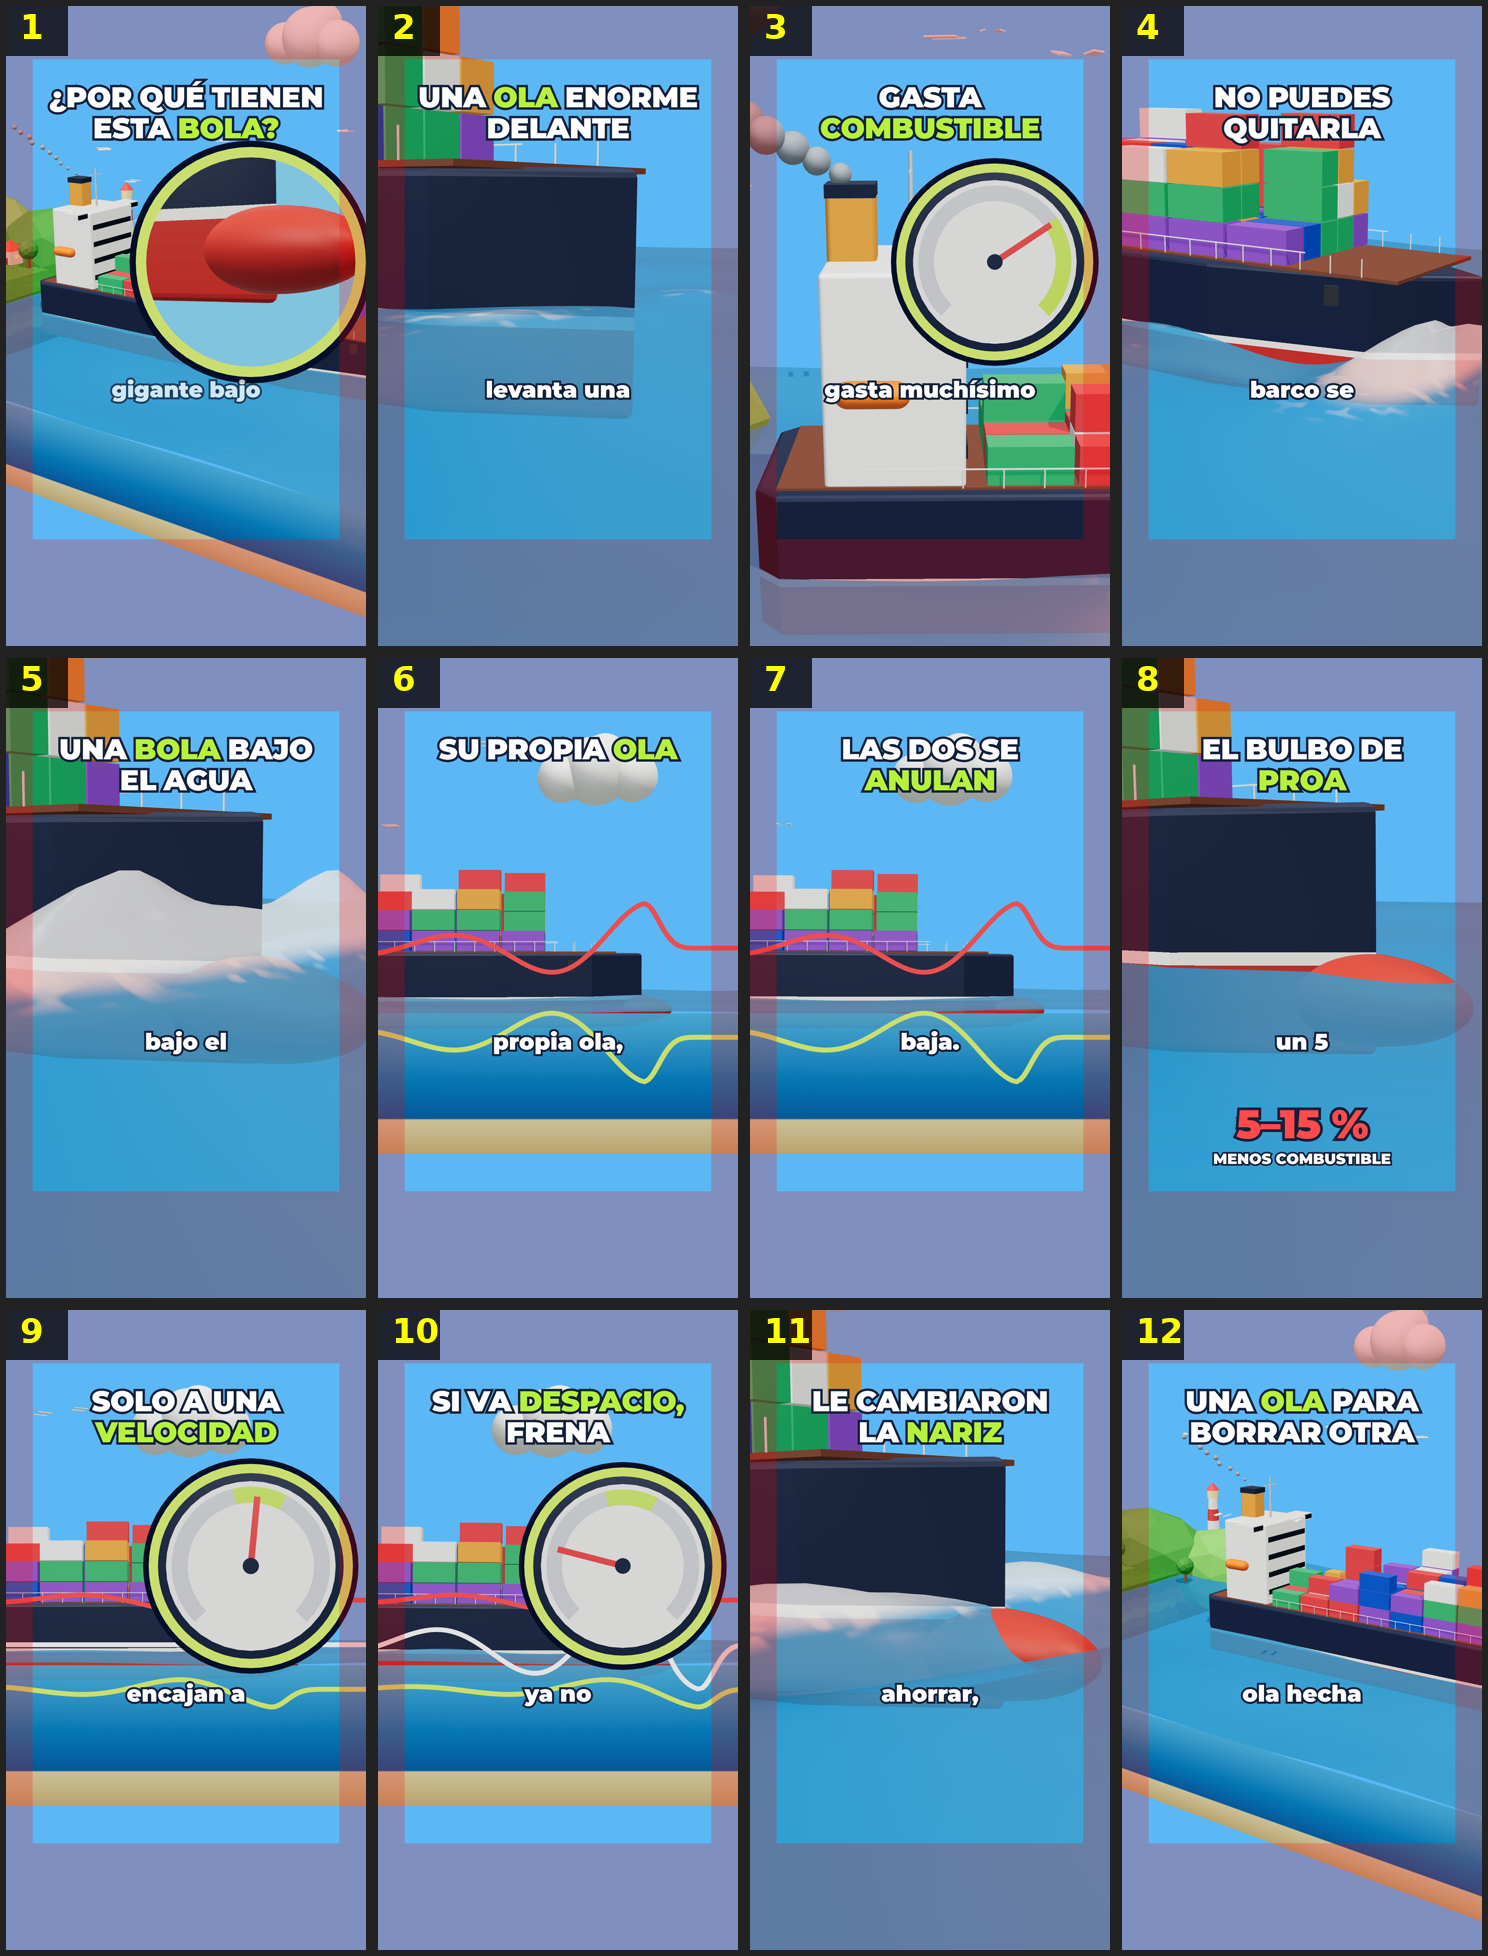
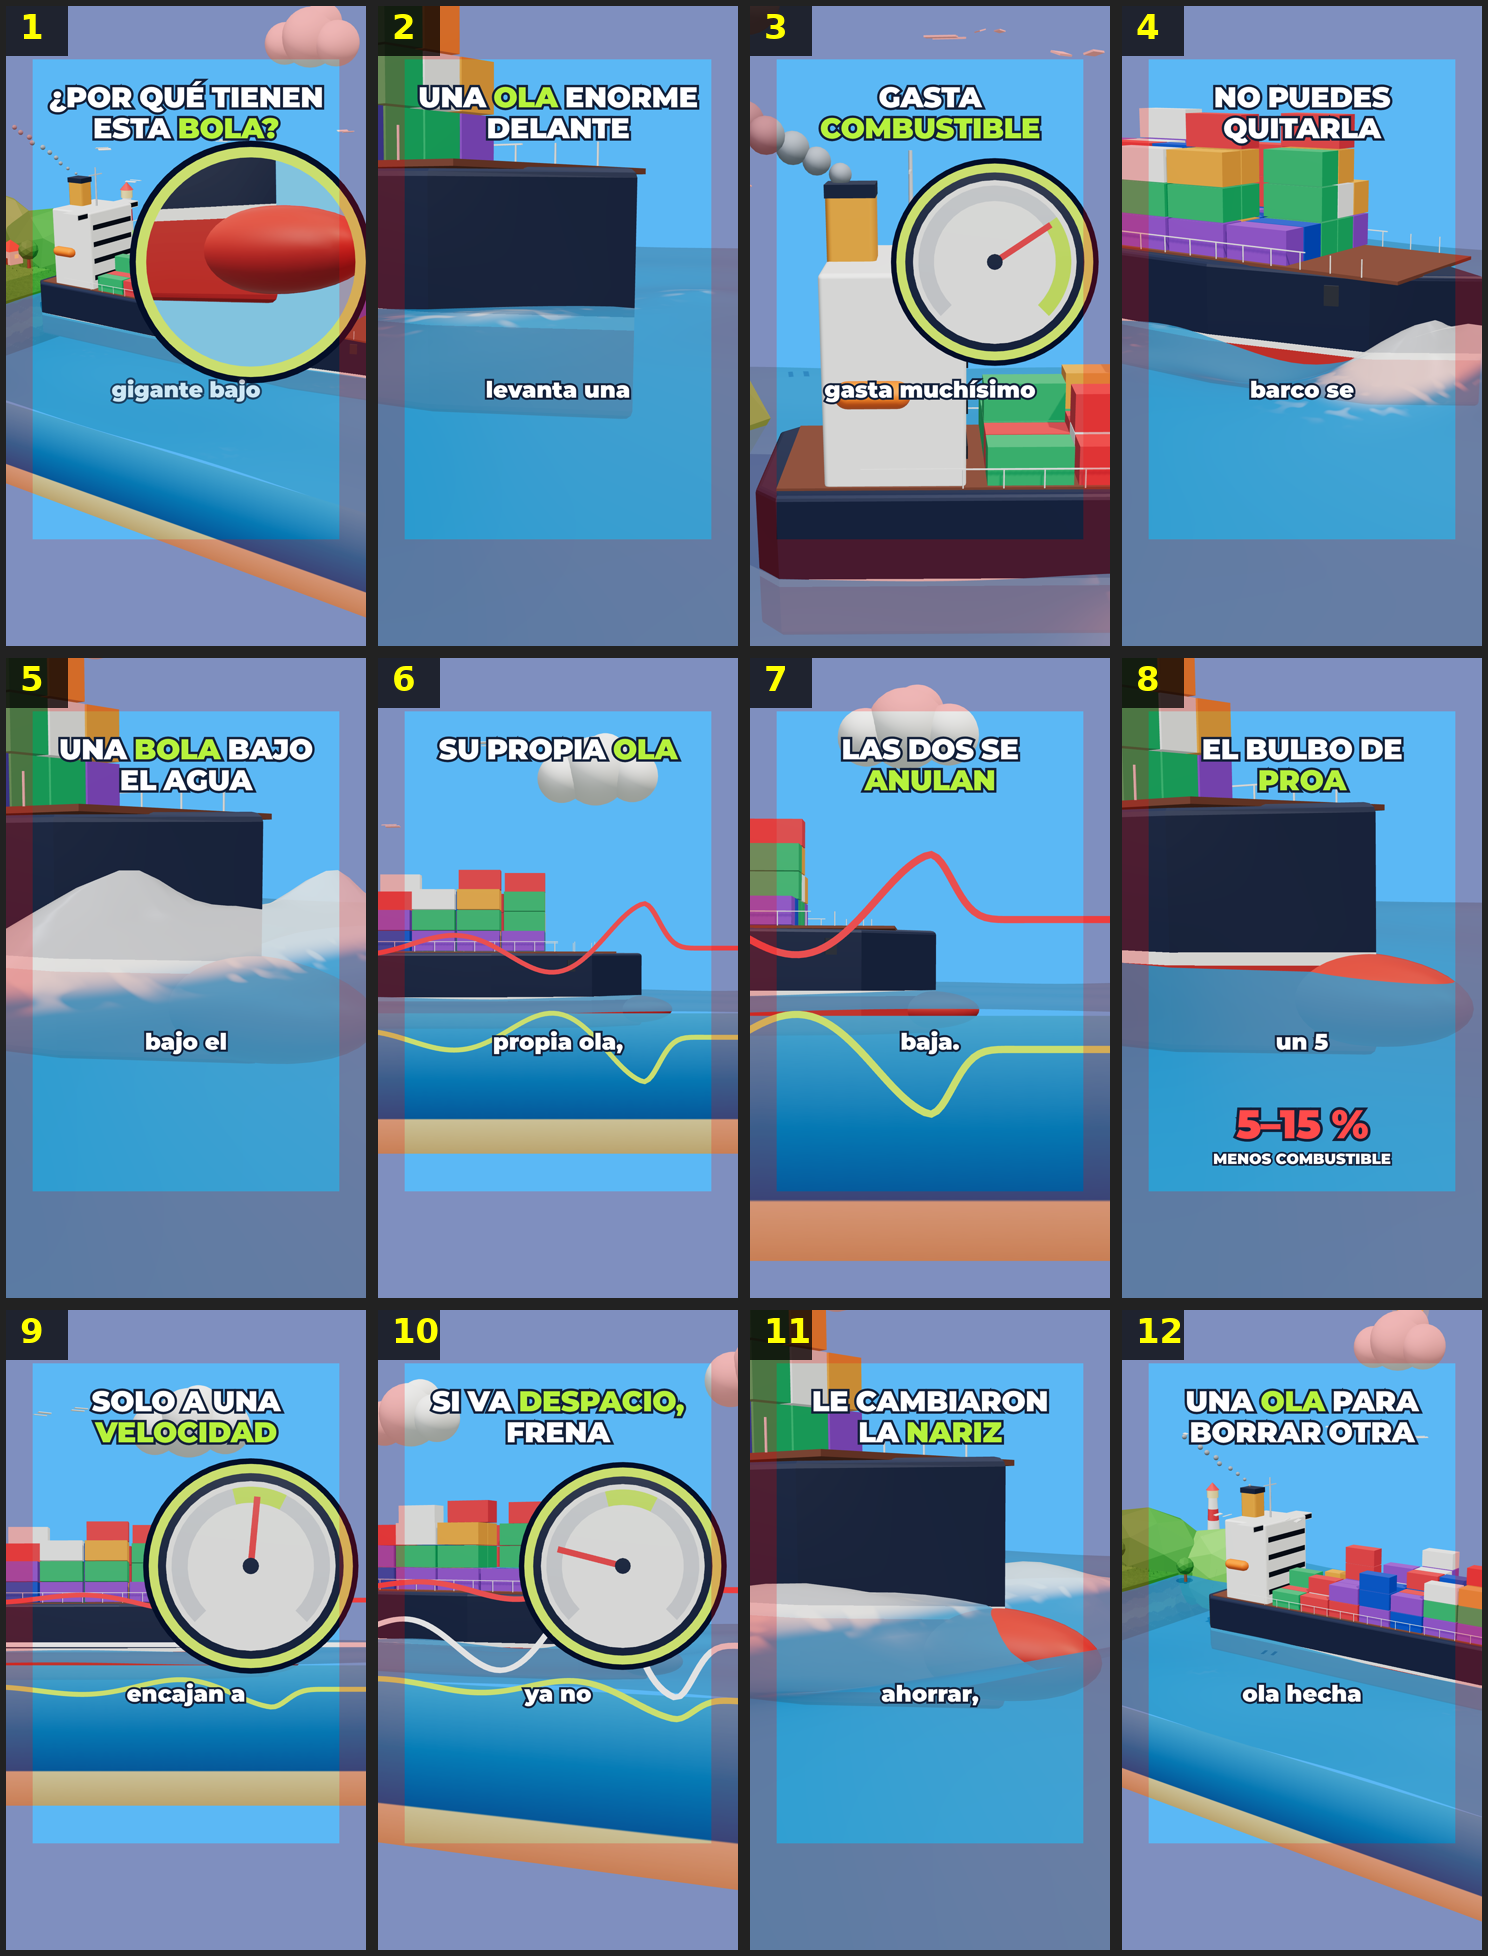
Bulbous-bow video: distinct framing for the two side-cut scenes that followed each other
Claude-Session: https://claude.ai/code/session_01F2TMiqHjkL4xcRcZuEi5yT

Changed region(s): [[0.4946, 0.343, 0.7728, 0.6549], [0.2473, 0.6861, 0.4946, 0.9668], [0.4637, 0.6861, 0.4946, 0.7173]]

diff --git a/videos/bulbo-proa/visuals3d.ts b/videos/bulbo-proa/visuals3d.ts
@@ -66,7 +66,7 @@ defineVisuals({
     bg: BP.sky,
     build(w) { const H = bpCutSet(w);
       return (t) => { const x = bpSail(w, t, 4, 0.6), s = bpGrow(t, w.K('suma')), pr = 1 + 0.25 * Math.max(0, Math.sin((t - w.K('sube')) * 6)) * (t > w.K('sube') && t < w.K('baja') ? 1 : 0);
-        bpCut(H, t, x, { ship: (1 - 0.6 * s) * pr, bulb: 1 - 0.6 * s, sum: s, phase: 0 }); bpSideCam(w, x); H.cap(t); }; },
+        bpCut(H, t, x, { ship: (1 - 0.6 * s) * pr, bulb: 1 - 0.6 * s, sum: s, phase: 0 }); w.look([x + 17, 1.2, 44], [x + 17, 0.6, 0], 36); H.cap(t); }; },   // closer on the bow than the scene before: the cut reads
   },
   // 8. that's the bulbous bow: 5–15 % less fuel; the bow and its glowing bulb on a calm sea
   nombre: {
@@ -87,7 +87,7 @@ defineVisuals({
     bg: BP.sky,
     build(w) { const H = bpCutSet(w), gauge = bpGaugeSet(w, [0.45, 0.6]), lens = bpLens(w), red = dioSmooth(BP.red, 0.4); let white: THREE.Material | null = null;
       return (t) => { const x = bpSail(w, t, 8, 0.4), slow = p3Ramp(t, w.K('lento'), w.K('lento') + 1.2), sum = H.c.children[2] as THREE.Mesh; white ??= sum.material as THREE.Material;
-        bpCut(H, t, x, { ship: 0.4, bulb: 0.4, sum: 1, phase: 3.2 * slow }); sum.material = t > w.K('frena') ? red : white; gauge.pose(p3Lerp(0.53, 0.22, slow)); bpSideCam(w, x);
+        bpCut(H, t, x, { ship: 0.4, bulb: 0.4, sum: 1, phase: 3.2 * slow }); sum.material = t > w.K('frena') ? red : white; gauge.pose(p3Lerp(0.53, 0.22, slow)); w.look([x + 34, 4, 50], [x + 12, 0.6, 0], 36);   // at an angle from ahead: a different shot from the scene before
         lens.pose(...BP_GAUGE_VIEW, 1); H.cap(t); }; },
   },
   // 11. so some shipping lines, sailing slower to save fuel, changed their ships' noses
